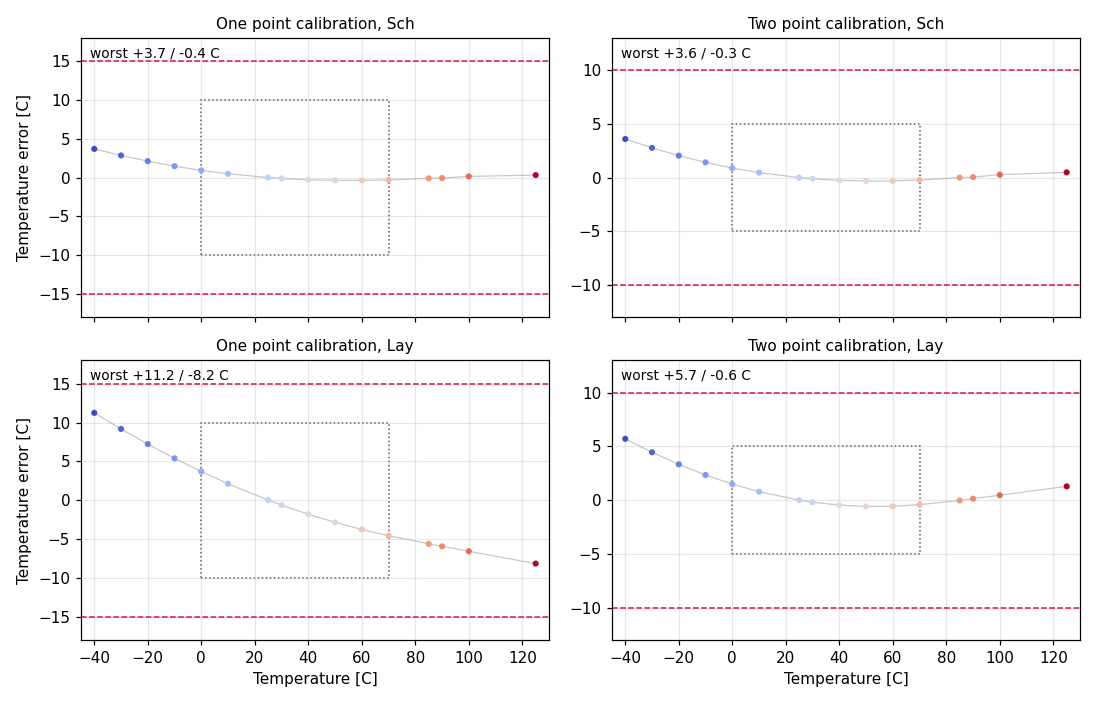
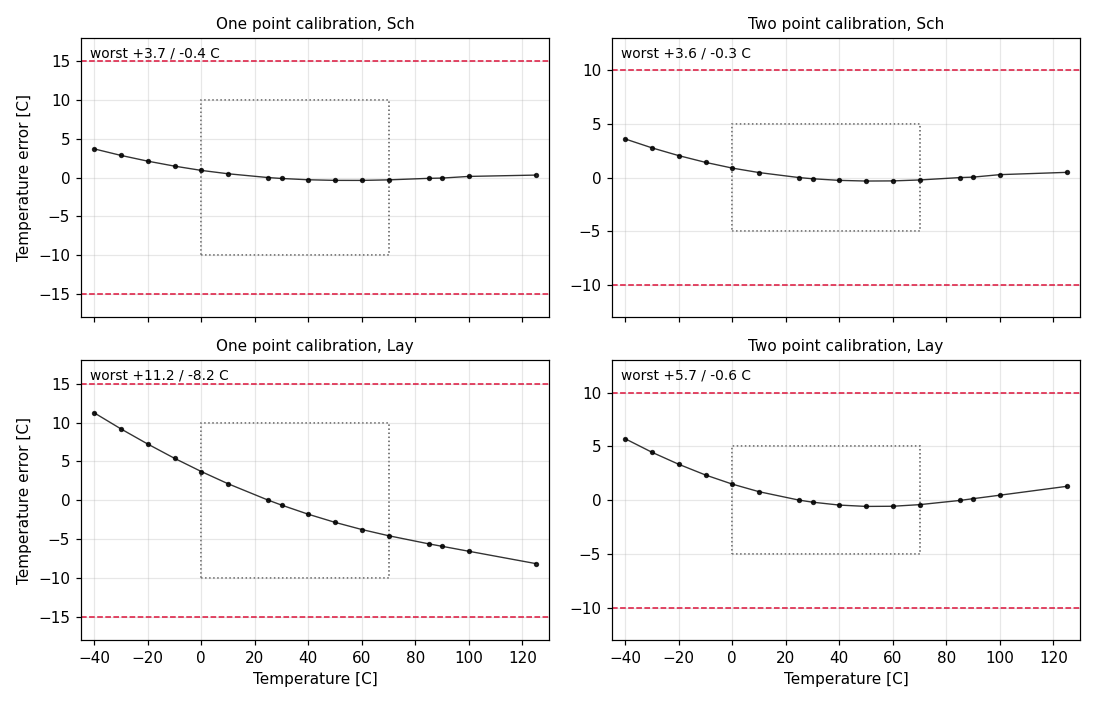
plot: black lines, the temperature colors were hard to read
Claude-Session: https://claude.ai/code/session_01V2NXKz4pJqzwkkQt9GQ19N

diff --git a/sim/LELO_TEMP/plot_results.py b/sim/LELO_TEMP/plot_results.py
@@ -4,9 +4,7 @@
 One figure per run-set (typical, etc, mc), each a grid of
 temperature-error panels: rows are the views (Sch on top, Lay below),
 columns are the calibrations (one-point left, two-point right). Every
-corner is a thin gray line with its samples colored by temperature,
-blue at -40C to red at 125C, so a cold-side and a hot-side failure
-read differently at a glance. The industrial spec is the dashed red
+corner is a thin black line. The industrial spec is the dashed red
 pair of lines, the commercial spec (0..70C) the dotted box, and the
 worst corner-to-corner error is printed in each panel.
 
@@ -97,9 +95,8 @@ def runs_of(runfile):
 def error_panel(ax, runs, cal):
     ind, com = SPEC[cal]["ind"], SPEC[cal]["com"]
     for r in runs:
-        ax.plot(r["temp"], r[cal], color="0.78", lw=0.8, zorder=1)
-        ax.scatter(r["temp"], r[cal], c=r["temp"], cmap="coolwarm",
-                   vmin=TMIN, vmax=TMAX, s=16, zorder=2, edgecolors="none")
+        ax.plot(r["temp"], r[cal], color="black", lw=0.9,
+                marker="o", ms=2.5, alpha=0.8)
     ax.axhline(+ind, color="crimson", ls="--", lw=1)
     ax.axhline(-ind, color="crimson", ls="--", lw=1)
     ax.add_patch(Rectangle((0, -com), 70, 2 * com, fill=False,
@@ -150,11 +147,8 @@ def transfer_figure():
         if not os.path.exists(runfile):
             continue
         for r in runs_of(runfile):
-            ax.plot(r["temp"], r["freq"] / 1e6, styles[view], color="0.55",
-                    lw=1, label=view, zorder=1)
-            ax.scatter(r["temp"], r["freq"] / 1e6, c=r["temp"],
-                       cmap="coolwarm", vmin=TMIN, vmax=TMAX, s=22,
-                       zorder=2, edgecolors="none")
+            ax.plot(r["temp"], r["freq"] / 1e6, styles[view], color="black",
+                    lw=1, marker="o", ms=3, label=view)
     ax.set_xlabel("Temperature [C]")
     ax.set_ylabel("Frequency [MHz]")
     ax.grid(True, alpha=0.3)

diff --git a/README.md b/README.md
@@ -122,8 +122,7 @@ No external hardware is required beyond something that can measure frequency.
 # Simulation graphs
 
 All result figures show both views: **Sch** is the schematic netlist,
-**Lay** the parasitic extraction of the finished layout. Points are
-colored by temperature, blue at -40 C to red at 125 C. In the error
+**Lay** the parasitic extraction of the finished layout. In the error
 figures the left column is one-point calibration, the right column
 two-point; the dashed red lines are the industrial spec (-40 to 125 C,
 ±15 C / ±10 C), the dotted box the commercial spec (0 to 70 C,
